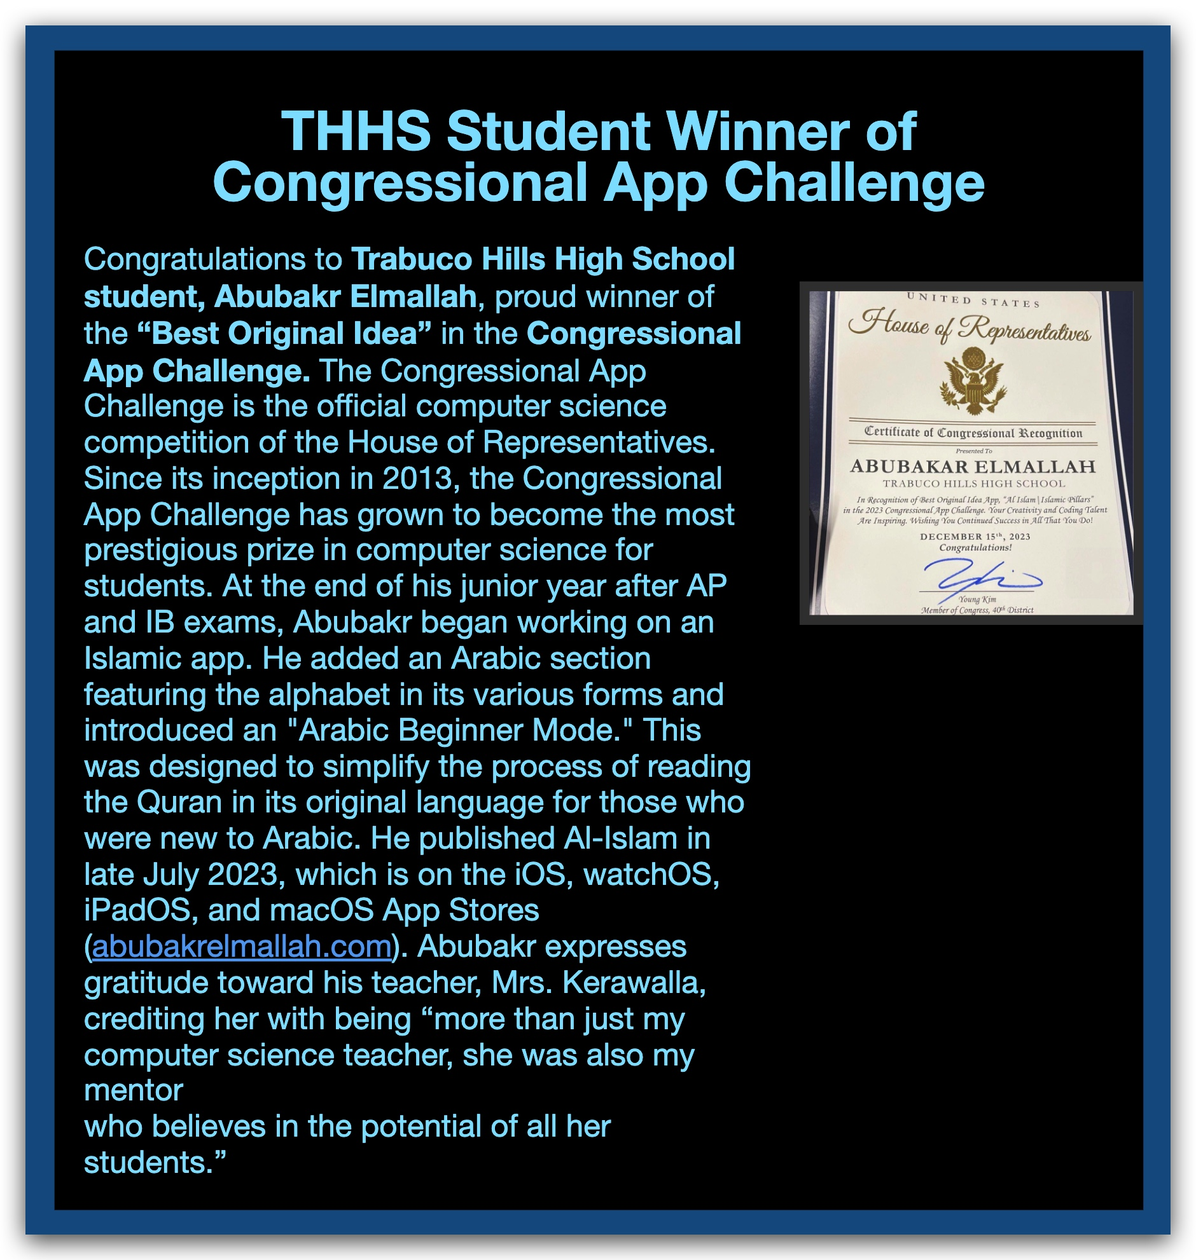
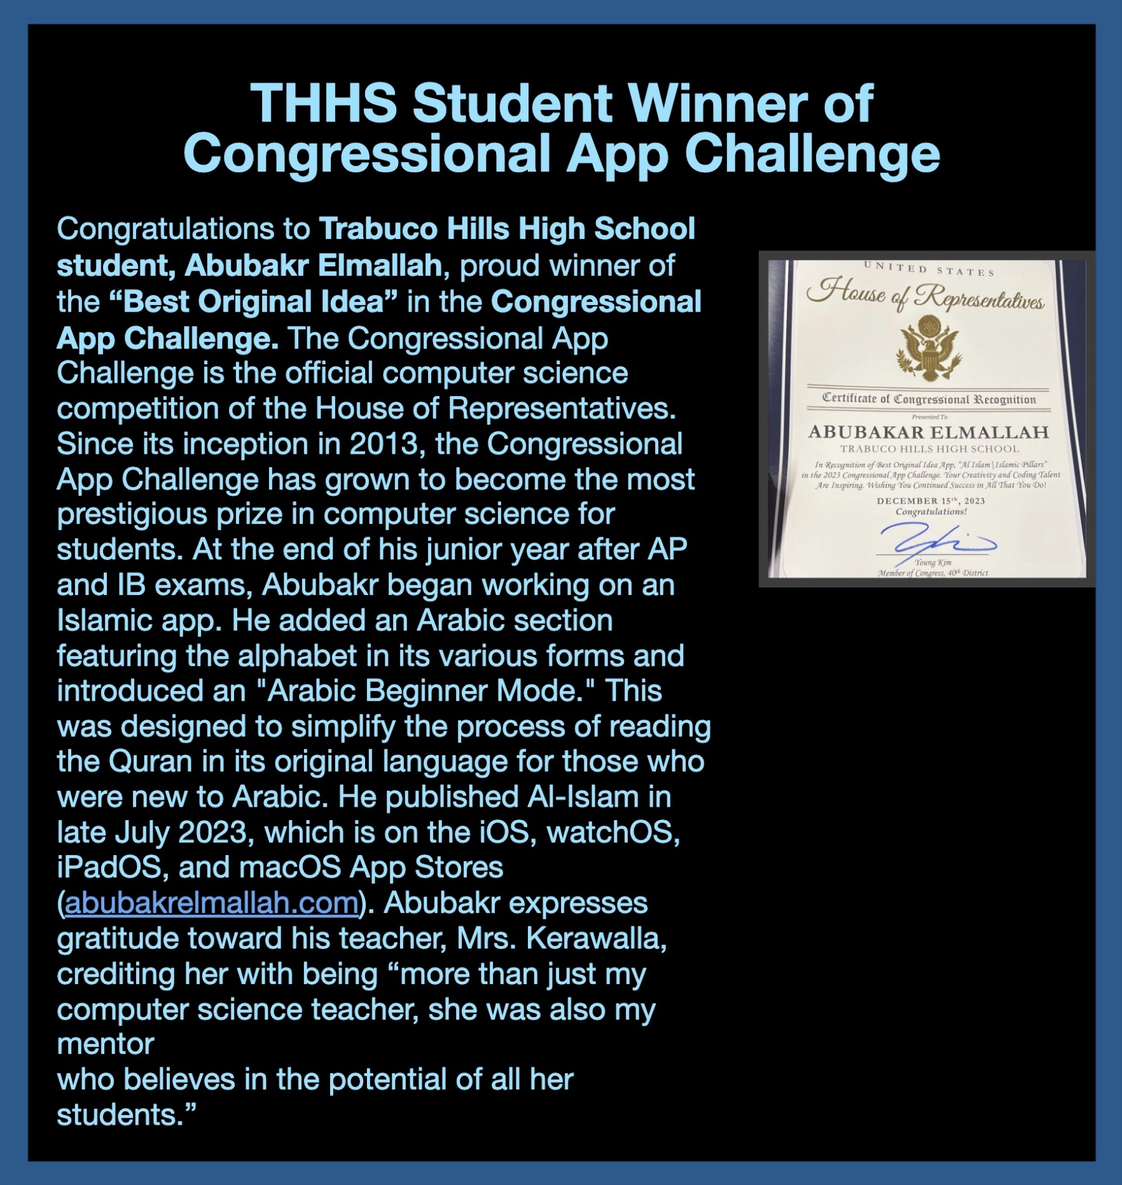
Version 1.1.1

diff --git a/src/projects.html b/src/projects.html
@@ -6,9 +6,9 @@
 <meta name="description" content="All projects by Abubakr Elmallah — UCI apps, personal Apple ecosystem apps, Discord bots, and high-school programming." />
 <meta name="theme-color" content="#08080a" />
 
-<link rel="icon" type="image/jpeg" href="../assets/img/me/abubakr-circle.jpg" />
-<link rel="apple-touch-icon" href="../assets/img/me/abubakr-circle.jpg" />
-<meta property="og:image" content="../assets/img/me/abubakr-circle.jpg" />
+<link rel="icon" type="image/png" href="../assets/img/me/abubakr-circle.png" />
+<link rel="apple-touch-icon" href="../assets/img/me/abubakr-circle.png" />
+<meta property="og:image" content="../assets/img/me/abubakr-circle.png" />
 <meta property="og:type" content="website" />
 <title>Projects — Abubakr Elmallah</title>
 
@@ -39,7 +39,7 @@
 
 <header class="topbar">
   <a href="../index.html" class="brand" data-magnetic>
-    <img class="brand-avatar" src="../assets/img/me/abubakr-circle.jpg" alt="Abubakr Elmallah" /><span class="brand-glyph"><b>Abubakr</b> Elmallah</span>
+    <img class="brand-avatar" src="../assets/img/me/abubakr-circle.png" alt="Abubakr Elmallah" /><span class="brand-glyph"><b>Abubakr</b> Elmallah</span>
   </a>
   <!-- top nav controls hidden — using the bottom tab bar instead
 <nav class="nav">
@@ -124,7 +124,7 @@
         </div>
         <a class="app-cat app-cat--starwars" href="star-wars.html">Star Wars ↗</a>
         <h3>Datapad</h3>
-        <p class="app-sub">2023 · Aurebesh Translator · 4.9 ★</p>
+        <p class="app-sub">June 26, 2023</p>
         <p>The ultimate tool for Star Wars fans to explore and translate the galactic alphabet Aurebesh in all its forms — a custom Aurebesh keyboard, immersive features, and a galactic-themed interface.</p>
         <div class="app-shots" aria-label="App Store proof">
           <figure><a href="../assets/img/awards/datapad-chart.jpg"><img src="../assets/img/awards/datapad-chart.jpg" alt="Datapad ranked #10 on the App Store Entertainment Top Charts" loading="lazy" /></a><figcaption>#10 · Top Charts</figcaption></figure>
@@ -139,7 +139,7 @@
         <div class="app-head"><img class="app-icon" src="../assets/img/apps/aurebesh-translator.jpg" alt="Aurebesh Translator app icon" loading="lazy" /></div>
         <a class="app-cat app-cat--starwars" href="star-wars.html">Star Wars ↗</a>
         <h3>Aurebesh Translator</h3>
-        <p class="app-sub">2024 · Free, ad-free edition</p>
+        <p class="app-sub">October 22, 2024</p>
         <p>The free version of Datapad — a simple, ad-free way to translate between English and Aurebesh, fully offline, with a distraction-free interface.</p>
         <div class="app-foot">
           <span class="app-tags">iOS · iPadOS · watchOS · macOS</span>
@@ -156,7 +156,7 @@
         </div>
         <a class="app-cat app-cat--islamic" href="al-islam.html">Islamic ↗</a>
         <h3>Islamic Center of Irvine</h3>
-        <p class="app-sub">2023 · Community mosque app</p>
+        <p class="app-sub">October 3, 2023</p>
         <p>Built for the Irvine Muslim community — accurate mosque prayer times, important links, Quran access, Islamic tools, and local business support.</p>
         <div class="app-foot">
           <span class="app-tags">iOS · iPadOS · watchOS · macOS</span>
@@ -167,7 +167,7 @@
         <div class="app-head"><img class="app-icon" src="../assets/img/apps/al-adhan.jpg" alt="Al-Adhan | Prayer Times app icon" loading="lazy" /></div>
         <a class="app-cat app-cat--islamic" href="al-islam.html">Islamic ↗</a>
         <h3>Al-Adhan · Prayer Times</h3>
-        <p class="app-sub">2023 · Prayer times &amp; qibla</p>
+        <p class="app-sub">December 31, 2023</p>
         <p>An offshoot of Al-Islam that enhances daily worship with precise prayer times, real-time qibla direction, and a unique Traveling Mode for on-the-go adjustments.</p>
         <div class="app-foot">
           <span class="app-tags">iOS · iPadOS · watchOS · macOS</span>
@@ -184,10 +184,10 @@
         </div>
         <a class="app-cat app-cat--islamic" href="al-islam.html">Islamic ↗</a>
         <h3>Al-Islam · Islamic Pillars</h3>
-        <p class="app-sub">2023 · All-in-one Muslim companion</p>
+        <p class="app-sub">July 26, 2023</p>
         <p>An all-in-one companion for lifelong Muslims and converts alike — Traveling Mode, Beginner Arabic Mode, prayer times, qibla direction, Quran access, and tools to deepen faith and connect with Allah.</p>
         <div class="app-shots" aria-label="Award proof">
-          <figure><a href="../assets/img/awards/al-islam-congressional.jpg"><img src="../assets/img/awards/al-islam-congressional.jpg" alt="Congressional App Challenge winner announcement for Abubakr Elmallah" loading="lazy" /></a><figcaption>Best Original Idea</figcaption></figure>
+          <figure><a href="../assets/img/awards/al-islam-congressional.jpg"><img class="shift-right" src="../assets/img/awards/al-islam-congressional.jpg" alt="Congressional App Challenge winner announcement for Abubakr Elmallah" loading="lazy" /></a><figcaption>Best Original Idea</figcaption></figure>
           <figure><a href="../assets/img/awards/al-islam-certificate.jpg"><img src="../assets/img/awards/al-islam-certificate.jpg" alt="House of Representatives Certificate of Congressional Recognition" loading="lazy" /></a><figcaption>House of Reps.</figcaption></figure>
         </div>
         <div class="app-foot">
@@ -205,10 +205,10 @@
         </div>
         <a class="app-cat app-cat--islamic" href="al-islam.html">Islamic ↗</a>
         <h3>Al-Quran · Beginner Quran</h3>
-        <p class="app-sub">2023 · Learn &amp; study the Holy Quran</p>
+        <p class="app-sub">December 26, 2023</p>
         <p>Makes learning and studying the Holy Quran accessible — Arabic Beginner Mode, ayah sharing, recitations, and tools for enhancing your spiritual journey.</p>
         <div class="app-shots" aria-label="Award proof">
-          <figure><a href="../assets/img/awards/al-quran-ssc.jpg"><img src="../assets/img/awards/al-quran-ssc.jpg" alt="Swift Student Challenge 2024 award for Al-Quran" loading="lazy" /></a><figcaption>Swift Student Challenge</figcaption></figure>
+          <figure><a href="../assets/img/awards/al-quran-ssc.jpg"><img class="shift-right-lg" src="../assets/img/awards/al-quran-ssc.jpg" alt="Swift Student Challenge 2024 award for Al-Quran" loading="lazy" /></a><figcaption>Swift Student Challenge</figcaption></figure>
           <figure><a href="../assets/img/awards/al-quran-apple-letter.jpg"><img src="../assets/img/awards/al-quran-apple-letter.jpg" alt="Apple Worldwide Developer Relations letter congratulating Abubakr Elmallah" loading="lazy" /></a><figcaption>Apple · WWDC letter</figcaption></figure>
         </div>
         <div class="app-foot">
@@ -245,7 +245,7 @@
         <div class="app-head"><img class="app-icon" src="../assets/img/bots/aurebesh-droid.png" alt="Aurebesh Droid icon" loading="lazy" /></div>
         <a class="app-cat app-cat--starwars" href="star-wars.html">Star Wars ↗</a>
         <h3>Aurebesh Droid</h3>
-        <p class="app-sub">2025 · Aurebesh, on Discord</p>
+        <p class="app-sub">2025 · Aurebesh Translator on Discord</p>
         <p>Translate English to and from Aurebesh right inside Discord — fast, server-friendly, and written in C++ for speed.</p>
         <div class="app-foot">
           <span class="app-tags">Discord · C++</span>
@@ -296,7 +296,7 @@
         <a class="proj-media" href="https://studio.code.org/projects/applab/40V7TcnK87l1VxSAjbI-VFHSF06Hk2F6qvp6tzq_kRM" target="_blank" rel="noopener"><img src="../assets/img/highschool/games.png" alt="Games — Hangman, Wordle and Two-Player Checkers" loading="lazy" /></a>
         <div class="proj-info">
           <div class="proj-titlerow"><h3>Games</h3><span class="proj-yr">2022</span></div>
-          <span class="app-tags">Hangman · Wordle · Checkers</span>
+          <span class="app-tags">Code.org · JavaScript</span>
           <div class="app-links">
             <a href="https://studio.code.org/projects/applab/40V7TcnK87l1VxSAjbI-VFHSF06Hk2F6qvp6tzq_kRM" target="_blank" rel="noopener">Code.org ↗</a>
             <a href="https://github.com/TheAbubakrAbu/Games" target="_blank" rel="noopener">GitHub ↗</a>

diff --git a/src/al-islam.html b/src/al-islam.html
@@ -6,9 +6,9 @@
 <meta name="description" content="Al-Islam apps by Abubakr Elmallah — Al-Islam, Al-Quran, and Al-Adhan. Award-winning Islamic apps for the Apple ecosystem." />
 <meta name="theme-color" content="#08080a" />
 
-<link rel="icon" type="image/jpeg" href="../assets/img/me/abubakr-circle.jpg" />
-<link rel="apple-touch-icon" href="../assets/img/me/abubakr-circle.jpg" />
-<meta property="og:image" content="../assets/img/me/abubakr-circle.jpg" />
+<link rel="icon" type="image/png" href="../assets/img/me/abubakr-circle.png" />
+<link rel="apple-touch-icon" href="../assets/img/me/abubakr-circle.png" />
+<meta property="og:image" content="../assets/img/me/abubakr-circle.png" />
 <meta property="og:type" content="website" />
 <title>Al-Islam — Abubakr Elmallah</title>
 
@@ -39,7 +39,7 @@
 
 <header class="topbar">
   <a href="../index.html" class="brand" data-magnetic>
-    <img class="brand-avatar" src="../assets/img/me/abubakr-circle.jpg" alt="Abubakr Elmallah" /><span class="brand-glyph"><b>Abubakr</b> Elmallah</span>
+    <img class="brand-avatar" src="../assets/img/me/abubakr-circle.png" alt="Abubakr Elmallah" /><span class="brand-glyph"><b>Abubakr</b> Elmallah</span>
   </a>
   <!-- top nav controls hidden — using the bottom tab bar instead
 <nav class="nav">
@@ -87,7 +87,7 @@
       <article class="app-card reveal">
         <div class="app-head"><img class="app-icon" src="../assets/img/apps/al-adhan.jpg" alt="Al-Adhan | Prayer Times app icon" loading="lazy" /></div>
         <h3>Al-Adhan · Prayer Times</h3>
-        <p class="app-sub">2023 · Prayer times &amp; qibla</p>
+        <p class="app-sub">December 31, 2023</p>
         <p>An offshoot of Al-Islam that enhances daily worship with precise prayer times, real-time qibla direction, and a unique Traveling Mode for on-the-go adjustments.</p>
         <div class="app-foot">
           <span class="app-tags">iOS · iPadOS · watchOS · macOS</span>
@@ -104,10 +104,10 @@
           <a class="app-badge" href="https://www.congressionalappchallenge.us/" target="_blank" rel="noopener">🏆 Congressional Challenge ’23</a>
         </div>
         <h3>Al-Islam · Islamic Pillars</h3>
-        <p class="app-sub">2023 · All-in-one Muslim companion</p>
+        <p class="app-sub">July 26, 2023</p>
         <p>An all-in-one companion for lifelong Muslims and converts alike — Traveling Mode, Beginner Arabic Mode, prayer times, qibla direction, Quran access, and tools to deepen faith and connect with Allah.</p>
         <div class="app-shots" aria-label="Award proof">
-          <figure><a href="../assets/img/awards/al-islam-congressional.jpg"><img class="shift-left" src="../assets/img/awards/al-islam-congressional.jpg" alt="Congressional App Challenge winner announcement for Abubakr Elmallah" loading="lazy" /></a><figcaption>Best Original Idea</figcaption></figure>
+          <figure><a href="../assets/img/awards/al-islam-congressional.jpg"><img class="shift-right" src="../assets/img/awards/al-islam-congressional.jpg" alt="Congressional App Challenge winner announcement for Abubakr Elmallah" loading="lazy" /></a><figcaption>Best Original Idea</figcaption></figure>
           <figure><a href="../assets/img/awards/al-islam-certificate.jpg"><img src="../assets/img/awards/al-islam-certificate.jpg" alt="House of Representatives Certificate of Congressional Recognition" loading="lazy" /></a><figcaption>House of Reps.</figcaption></figure>
         </div>
         <div class="app-foot">
@@ -125,10 +125,10 @@
           <a class="app-badge" href="https://developer.apple.com/swift-student-challenge/" target="_blank" rel="noopener">🏆 Swift Student Challenge ’24</a>
         </div>
         <h3>Al-Quran · Beginner Quran</h3>
-        <p class="app-sub">2023 · Learn &amp; study the Holy Quran</p>
+        <p class="app-sub">December 26, 2023</p>
         <p>Makes learning and studying the Holy Quran accessible — Arabic Beginner Mode, ayah sharing, recitations, and tools for enhancing your spiritual journey.</p>
         <div class="app-shots" aria-label="Award proof">
-          <figure><a href="../assets/img/awards/al-quran-ssc.jpg"><img src="../assets/img/awards/al-quran-ssc.jpg" alt="Swift Student Challenge 2024 award for Al-Quran" loading="lazy" /></a><figcaption>Swift Student Challenge</figcaption></figure>
+          <figure><a href="../assets/img/awards/al-quran-ssc.jpg"><img class="shift-right-lg" src="../assets/img/awards/al-quran-ssc.jpg" alt="Swift Student Challenge 2024 award for Al-Quran" loading="lazy" /></a><figcaption>Swift Student Challenge</figcaption></figure>
           <figure><a href="../assets/img/awards/al-quran-apple-letter.jpg"><img src="../assets/img/awards/al-quran-apple-letter.jpg" alt="Apple Worldwide Developer Relations letter congratulating Abubakr Elmallah" loading="lazy" /></a><figcaption>Apple · WWDC letter</figcaption></figure>
         </div>
         <div class="app-foot">

diff --git a/src/star-wars.html b/src/star-wars.html
@@ -6,9 +6,9 @@
 <meta name="description" content="Star Wars projects by Abubakr Elmallah — Datapad & Aurebesh Translator apps, Sabacc & Aurebesh Discord bots, and high-school games." />
 <meta name="theme-color" content="#08080a" />
 
-<link rel="icon" type="image/jpeg" href="../assets/img/me/abubakr-circle.jpg" />
-<link rel="apple-touch-icon" href="../assets/img/me/abubakr-circle.jpg" />
-<meta property="og:image" content="../assets/img/me/abubakr-circle.jpg" />
+<link rel="icon" type="image/png" href="../assets/img/me/abubakr-circle.png" />
+<link rel="apple-touch-icon" href="../assets/img/me/abubakr-circle.png" />
+<meta property="og:image" content="../assets/img/me/abubakr-circle.png" />
 <meta property="og:type" content="website" />
 <title>Star Wars — Abubakr Elmallah</title>
 
@@ -39,7 +39,7 @@
 
 <header class="topbar">
   <a href="../index.html" class="brand" data-magnetic>
-    <img class="brand-avatar" src="../assets/img/me/abubakr-circle.jpg" alt="Abubakr Elmallah" /><span class="brand-glyph"><b>Abubakr</b> Elmallah</span>
+    <img class="brand-avatar" src="../assets/img/me/abubakr-circle.png" alt="Abubakr Elmallah" /><span class="brand-glyph"><b>Abubakr</b> Elmallah</span>
   </a>
   <!-- top nav controls hidden — using the bottom tab bar instead
 <nav class="nav">
@@ -84,7 +84,7 @@
           <span class="app-badge">🏆 Top 10 · Entertainment</span>
         </div>
         <h3>Datapad</h3>
-        <p class="app-sub">2023 · Aurebesh Translator · 4.9 ★</p>
+        <p class="app-sub">June 26, 2023</p>
         <p>The ultimate tool for Star Wars fans to explore and translate the galactic alphabet Aurebesh in all its forms — a custom Aurebesh keyboard, immersive features, and a galactic-themed interface.</p>
         <div class="app-shots" aria-label="App Store proof">
           <figure><a href="../assets/img/awards/datapad-chart.jpg" target="_blank" rel="noopener"><img src="../assets/img/awards/datapad-chart.jpg" alt="Datapad ranked #10 on the App Store Entertainment Top Charts" loading="lazy" /></a><figcaption>#10 · Top Charts</figcaption></figure>
@@ -99,7 +99,7 @@
       <article class="app-card reveal">
         <div class="app-head"><img class="app-icon" src="../assets/img/apps/aurebesh-translator.jpg" alt="Aurebesh Translator app icon" loading="lazy" /></div>
         <h3>Aurebesh Translator</h3>
-        <p class="app-sub">2024 · Free, ad-free edition</p>
+        <p class="app-sub">October 22, 2024</p>
         <p>The free version of Datapad — a simple, ad-free way to translate between English and Aurebesh, fully offline, with a distraction-free interface.</p>
         <div class="app-foot">
           <span class="app-tags">iOS · iPadOS · watchOS · macOS</span>
@@ -130,7 +130,7 @@
       <article class="app-card reveal">
         <div class="app-head"><img class="app-icon" src="../assets/img/bots/aurebesh-droid.png" alt="Aurebesh Droid icon" loading="lazy" /></div>
         <h3>Aurebesh Droid</h3>
-        <p class="app-sub">2025 · Aurebesh, on Discord</p>
+        <p class="app-sub">2025 · Aurebesh Translator on Discord</p>
         <p>Translate English to and from Aurebesh right inside Discord — fast, server-friendly, and written in C++ for speed.</p>
         <div class="app-foot">
           <span class="app-tags">Discord · C++</span>

diff --git a/index.html b/index.html
@@ -6,9 +6,9 @@
 <meta name="description" content="Abubakr Elmallah — UC Irvine Computer Science (Class of 2028) and iOS app developer. Swift & SwiftUI." />
 <meta name="theme-color" content="#08080a" />
 
-<link rel="icon" type="image/jpeg" href="assets/img/me/abubakr-circle.jpg" />
-<link rel="apple-touch-icon" href="assets/img/me/abubakr-circle.jpg" />
-<meta property="og:image" content="assets/img/me/abubakr-circle.jpg" />
+<link rel="icon" type="image/png" href="assets/img/me/abubakr-circle.png" />
+<link rel="apple-touch-icon" href="assets/img/me/abubakr-circle.png" />
+<meta property="og:image" content="assets/img/me/abubakr-circle.png" />
 <meta property="og:title" content="Abubakr Elmallah — iOS Developer" />
 <meta property="og:type" content="website" />
 <title>Abubakr Elmallah — iOS Developer</title>
@@ -44,7 +44,7 @@
 <!-- ─────────────── STICKY HEADER ─────────────── -->
 <header class="topbar">
   <a href="index.html" class="brand" data-magnetic>
-    <img class="brand-avatar" src="assets/img/me/abubakr-circle.jpg" alt="Abubakr Elmallah" /><span class="brand-glyph"><b>Abubakr</b> Elmallah</span>
+    <img class="brand-avatar" src="assets/img/me/abubakr-circle.png" alt="Abubakr Elmallah" /><span class="brand-glyph"><b>Abubakr</b> Elmallah</span>
   </a>
 
   <!-- top nav controls hidden — using the bottom tab bar instead
@@ -81,7 +81,7 @@
     <div class="hero-text">
       <p class="kicker"><span>(000 / Index)</span><span>UC Irvine — Class of 2028</span></p>
 
-      <h1 class="display">
+      <h1 class="display" data-magnetic>
         <span class="line" data-scramble>Abubakr</span>
         <span class="line line--italic" data-scramble>Elmallah</span>
       </h1>

diff --git a/assets/js/cardlink.js b/assets/js/cardlink.js
@@ -1,5 +1,9 @@
-/* cardlink.js — make a whole card clickable to its primary link,
-   while keeping inner links (GitHub, image popups, category tags) working. */
+/* cardlink.js — make a whole card act like a link to its primary destination.
+   A transparent stretched <a> overlay covers the card, so a left-click anywhere
+   navigates AND a right-click anywhere offers the browser's native
+   "Copy link address" — just like clicking the real link. Inner links
+   (GitHub, App Store, image popups, category tags) sit above the overlay and
+   keep their own behavior. */
 (function cardLinks() {
   document.querySelectorAll('.app-card, .proj-card').forEach(card => {
     // primary destination: the project media link, else the first footer link (App Store, etc.)
@@ -8,14 +12,15 @@
 
     card.classList.add('is-clickable');
 
-    card.addEventListener('click', e => {
-      // let real links / buttons behave normally
-      if (e.target.closest('a, button')) return;
-      // don't navigate if the user is selecting text
-      if (window.getSelection && String(window.getSelection())) return;
-
-      if (primary.target === '_blank') window.open(primary.href, '_blank', 'noopener');
-      else window.location.href = primary.href;
-    });
+    // a real anchor stretched over the whole card — gives native navigation
+    // and the native right-click "Copy link address" menu item
+    const overlay = document.createElement('a');
+    overlay.className = 'card-link-overlay';
+    overlay.href = primary.href;
+    overlay.setAttribute('aria-hidden', 'true');
+    overlay.tabIndex = -1;
+    if (primary.target) overlay.target = primary.target;
+    if (primary.rel) overlay.rel = primary.rel;
+    card.appendChild(overlay);
   });
 })();

diff --git a/assets/css/components.css b/assets/css/components.css
@@ -171,6 +171,14 @@
 }
 .app-card.is-clickable, .proj-card.is-clickable { cursor: none; }
 @media (hover: none) { .app-card.is-clickable, .proj-card.is-clickable { cursor: pointer; } }
+
+/* whole-card link: a stretched anchor overlay (see cardlink.js) so a click —
+   or right-click "Copy link address" — anywhere on the card hits the primary
+   link, while real inner links/buttons stay above and keep their own behavior */
+.is-clickable { position: relative; isolation: isolate; }
+.card-link-overlay { position: absolute; inset: 0; z-index: 1; cursor: inherit; }
+.is-clickable a:not(.card-link-overlay),
+.is-clickable button { position: relative; z-index: 3; }
 .app-card:hover { transform: translateY(-6px); border-color: transparent; background: rgba(31,157,92,0.04); }
 .app-card:hover::after { opacity: 1; }
 
@@ -225,8 +233,12 @@ a.app-badge:hover {
   filter: saturate(1.05); transition: transform .4s var(--ease), border-color .4s;
 }
 .app-shots figure:hover img { transform: translateY(-3px); border-color: var(--gold); }
-/* nudge a shot's framing slightly left within its figure */
-.app-shots img.shift-left { position: relative; right: 16px; }
+/* shift the crop window left of center so a screenshot's left-aligned text
+   isn't clipped (visually moves the content to the right). two strengths:
+   shift-right = gentle (al-islam-congressional), shift-right-lg = stronger
+   for a wider screenshot (al-quran-ssc) */
+.app-shots img.shift-right    { object-position: 20% top; }
+.app-shots img.shift-right-lg { object-position: 45% top; }
 .app-shots figcaption {
   font-family: var(--mono); font-size: 0.58rem; letter-spacing: 0.08em;
   text-transform: uppercase; color: var(--mute); margin-top: 0.5rem; text-align: center;

diff --git a/src/high-school.html b/src/high-school.html
@@ -6,9 +6,9 @@
 <meta name="description" content="Abubakr Elmallah's high-school work — programming projects, custom flyers, and custom wallpapers." />
 <meta name="theme-color" content="#08080a" />
 
-<link rel="icon" type="image/jpeg" href="../assets/img/me/abubakr-circle.jpg" />
-<link rel="apple-touch-icon" href="../assets/img/me/abubakr-circle.jpg" />
-<meta property="og:image" content="../assets/img/me/abubakr-circle.jpg" />
+<link rel="icon" type="image/png" href="../assets/img/me/abubakr-circle.png" />
+<link rel="apple-touch-icon" href="../assets/img/me/abubakr-circle.png" />
+<meta property="og:image" content="../assets/img/me/abubakr-circle.png" />
 <meta property="og:type" content="website" />
 <title>High School — Abubakr Elmallah</title>
 
@@ -39,7 +39,7 @@
 
 <header class="topbar">
   <a href="../index.html" class="brand" data-magnetic>
-    <img class="brand-avatar" src="../assets/img/me/abubakr-circle.jpg" alt="Abubakr Elmallah" /><span class="brand-glyph"><b>Abubakr</b> Elmallah</span>
+    <img class="brand-avatar" src="../assets/img/me/abubakr-circle.png" alt="Abubakr Elmallah" /><span class="brand-glyph"><b>Abubakr</b> Elmallah</span>
   </a>
   <!-- top nav controls hidden — using the bottom tab bar instead
 <nav class="nav">

diff --git a/src/resume.html b/src/resume.html
@@ -6,9 +6,9 @@
 <meta name="description" content="Résumé of Abubakr Elmallah." />
 <meta name="theme-color" content="#08080a" />
 
-<link rel="icon" type="image/jpeg" href="../assets/img/me/abubakr-circle.jpg" />
-<link rel="apple-touch-icon" href="../assets/img/me/abubakr-circle.jpg" />
-<meta property="og:image" content="../assets/img/me/abubakr-circle.jpg" />
+<link rel="icon" type="image/png" href="../assets/img/me/abubakr-circle.png" />
+<link rel="apple-touch-icon" href="../assets/img/me/abubakr-circle.png" />
+<meta property="og:image" content="../assets/img/me/abubakr-circle.png" />
 <meta property="og:type" content="website" />
 <title>Résumé — Abubakr Elmallah</title>
 
@@ -39,7 +39,7 @@
 
 <header class="topbar">
   <a href="../index.html" class="brand" data-magnetic>
-    <img class="brand-avatar" src="../assets/img/me/abubakr-circle.jpg" alt="Abubakr Elmallah" /><span class="brand-glyph"><b>Abubakr</b> Elmallah</span>
+    <img class="brand-avatar" src="../assets/img/me/abubakr-circle.png" alt="Abubakr Elmallah" /><span class="brand-glyph"><b>Abubakr</b> Elmallah</span>
   </a>
   <!-- top nav controls hidden — using the bottom tab bar instead
 <nav class="nav">

diff --git a/assets/js/tilt.js b/assets/js/tilt.js
@@ -1,4 +1,4 @@
-/* tilt.js — pointer-tracked 3D tilt + glare on cards, images, and the hero name */
+/* tilt.js — pointer-tracked 3D tilt + glare on cards and images */
 (function tilt() {
   if (!fine || reduceMotion) return;
 
@@ -33,7 +33,5 @@
   document.querySelectorAll('.app-card, .proj-card').forEach(el => bind(el, 7, -6));
   // standalone images / media tilt a touch harder
   document.querySelectorAll('.pic-frame, .flyer, .wall, .year-card').forEach(el => bind(el, 9, 0));
-  // the big hero name — subtle
-  const name = document.querySelector('.display');
-  if (name) bind(name, 5, 0);
+  // the hero name uses the magnetic drift effect instead (see magnetic.js)
 })();
